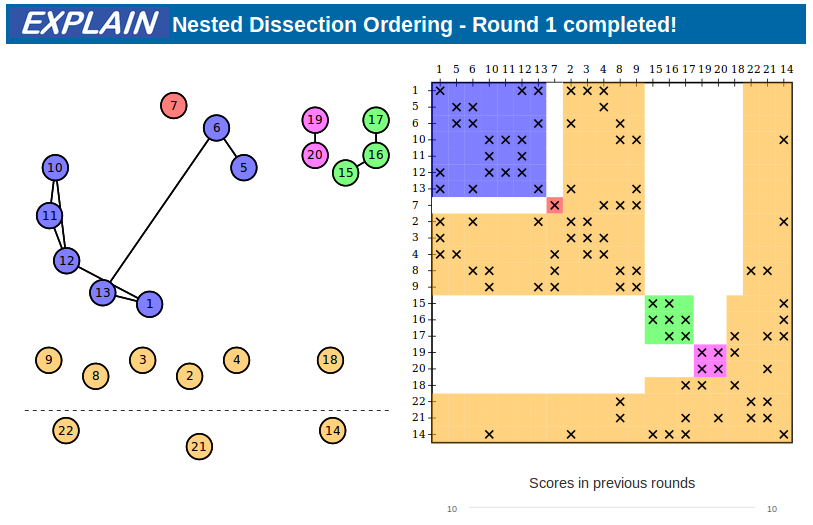
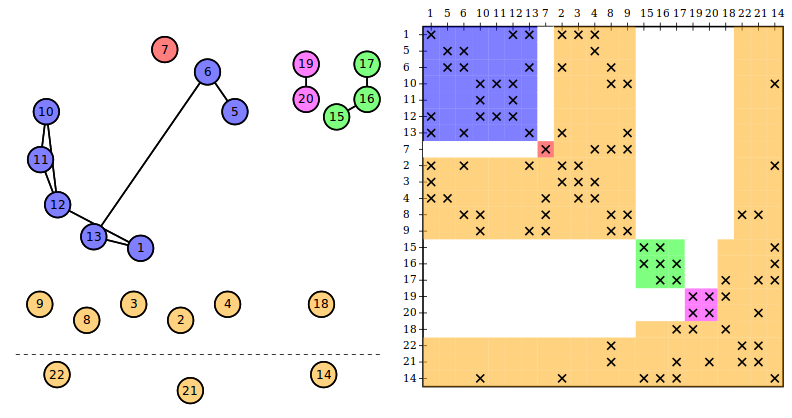
changes in nested dissection section and correcting a figure

diff --git a/diss.tex b/diss.tex
@@ -1862,7 +1862,7 @@ find a better coloring because of the inequality in the theorem.
 As theorem proposes, every required nonzero element
 is determined by either a column or a row and not both. Hence, a heuristic
 can iterate on the required element and selects between the row and column of
-the nonzero in favour of minimal coloring. 
+the nonzero in favour of minimal coloring.
 Thus, the star bicoloring heuristic can be rewritten for a better computational complexity.
 Regarding these ideas, the star bicoloring is rewritten as in \coderef{star.diagonal}.
 \begin{figure}
@@ -1881,12 +1881,12 @@ for $e=(v,u)\in E_R$
   $forbiddenColors2[0] = u$
 
   for $n\in N2(G_b,v)$
-    if $\Phi(n) > 0$ 
+    if $\Phi(n) > 0$
       $forbiddenColors1[\Phi(n)] = v$
 
   forbiddenColors[0] = u;
   for $n\in N2(G_b,u)$
-    if $\Phi(n) > 0$ 
+    if $\Phi(n) > 0$
       $forbiddenColors2[\Phi(n)] = u$
 
   $c_1 = min(\{j>0: forbiddenColors1[j] \neq v\})$
@@ -2061,8 +2061,8 @@ additionally required elements since those elements are outside the blocks.
 \section{PreCol 1.0}
 \label{s.extend}
 %%%%%%%%%%%%%%%%%%%%%%%%%%%%%%%%%%%%%%%%%%%%%%%%%%%%%%%%%%%%%%%%%%%%%%%%%%%%%
-We develop a software to compute the different algorihtm that we propose here. 
-Specially, the software is designed employing concepts from the object-oriented programming 
+We develop a software to compute the different algorihtm that we propose here.
+Specially, the software is designed employing concepts from the object-oriented programming
 such that it can be extended later with any new coloring heuristc as well as any preconditioning algorithm.
 The developers can implement new extensions without going into details of core implementation.
 This is explained in \secref{s.new.ext}.
@@ -2244,24 +2244,33 @@ an array which is the corresponding columns of nonzeros in this row.
 \label{explain}
 %%%%%%%%%%%%%%%%%%%%%%%%%%%%%%%%%%%%%%%%%%%%%%%%%%%%%%%%%%%%%%%%%%%%%%%%%%%%%%%%%%%%%
 We develop an extensible collection of educational modules (\mbox{EXPLAIN})
-to teach combinatorial scientific computing in classroom. 
+to teach combinatorial scientific computing in classroom.
 There is an increasing need for such educational tools since the connection
 between the problem from scientific computing and the corresponding combinatorial
 problem is tricky for the students.
 
-During this chapter, we look first at the conceptual design of the software in
-\secref{s.concept}. Then, we apply the gamification ideas on the software in 
-\secref{s.game} to involve the students more into the usage of \mbox{EXPLAIN}.
+\mbox{EXPLAIN} has two releases 1.0 and 2.0 so far which we will explain in more 
+details in \secref{s.impl.explain}. Some of the modules which will be explained
+are only available in the new release because of the efficiency. Both releases
+are available now since they were developed on different technologies and have
+pros and cons. However, the release 2.0 is an improved version and is developed
+regularly.
 
+During this chapter, we look first at the conceptual design of the software in
+\secref{s.concept}. Then, we apply the gamification ideas on the software in
+\secref{s.game} to involve the students more into the usage of \mbox{EXPLAIN}.
+We explain how the conceptual design is finally visualized in \secref{s.vis}.
+After looking at the available modules in \secref{s.av.modules}, we look at 
+some implementation details in \secref{s.impl.explain}.
 %%%%%%%%%%%%%%%%%%%%%%%%%%%%%%%%%%%%%%%%%%%%%%%%%%%%%%%%%%%%%%%%%%%%%%%%%%%%%%%%%%%%%
 \section{Conceptual Design}
 \label{s.concept}
 %%%%%%%%%%%%%%%%%%%%%%%%%%%%%%%%%%%%%%%%%%%%%%%%%%%%%%%%%%%%%%%%%%%%%%%%%%%%%%%%%%%%%
-Throughout the design stage, we were focused on the following goals. 
+Throughout the design stage, we were focused on the following goals.
 This software is a self-study tool and the connection between the scientific computing
 and combinatorial problems are explained by teacher in classroom.
-The students can follow the algorithm on the graph by either 
-clicking on the vertices or edges. 
+The students can follow the algorithm on the graph by either
+clicking on the vertices or edges.
 So, neither the matrix nor its nonzeros are not clickable.
 Clicking results in the modifications in both graph and matrix.
 The available modifications on graph and matrix can be one or more actions
@@ -2272,7 +2281,7 @@ from the following list,
 \item Changing the positions of vertices
 \item Permutating matrix columns or rows or both.
 \item Coloring any cell, column, or row of matrix
-\end{itemize} 
+\end{itemize}
 
 A sparse matrix is given as an input and the corresponding graph is built from this matrix.
 The matrix and the corresponding graph are visualized side by side.
@@ -2284,9 +2293,9 @@ The graph model can be from one of the following types,
 \item Bipartite graph: the bipartite graph model explained in \defref{d.bip.graph}.
 \end{itemize}
 
-We define a set of predefined list of colors which can be selected by 
-the corresponding numbers, for example  
-$\{1=\text{green}, 2=\text{turquoise}, 3=\text{orange}, 4=\text{violet}, 
+We define a set of predefined list of colors which can be selected by
+the corresponding numbers, for example
+$\{1=\text{green}, 2=\text{turquoise}, 3=\text{orange}, 4=\text{violet},
 5=\text{red}, 6=\text{yellow}, ...\}$.
 There are different set of perceptually-distinct colors which user can select.
 %%%%%%%%%%%%%%%%%%%%%%%%%%%%%%%%%%%%%%%%%%%%%%%%%%%%%%%%%%%%%%%%%%%%%%%%%%%%%%%%%%%%%
@@ -2320,12 +2329,12 @@ load.
 %%%%%%%%%%%%%%%%%%%%%%%%%%%%%%%%%%%%%%%%%%%%%%%%%%%%%%%%%%%%%%%%%%%%%%%%%%%%%%%%%%%%%%
 \section{Visualization}
 \label{s.vis}
-Based on our goal to visualized the connection of the algorithm on the matrix and graph sides simultaneausly,
+Based on our goal to visualized the connection of the algorithm on the matrix and graph sides simultaneously,
 we designed the software to have the four sections as illustrated in \figref{explain-design} (Left).
-The graph is drawn on the circular layout first. The layout can be selected later 
-in the control panel. The matrix is visualized also at the right side and 
+The graph is drawn on the circular layout first. The layout can be selected later
+in the control panel. The matrix is visualized also at the right side and
 their nonzero elements are shown by the notation $\times$.
-\figref{explain-design} (Right) shows an actual example of the implemented view of 
+\figref{explain-design} (Right) shows an actual example of the implemented view of
 \mbox{EXPLAIN}.
 
 %%%%%%%%%%%%%%%%%%%%%%%%%%%%%%%%%%%%%%%%%%%%%%%%%%%%%%%%%%%%%%%%%%%%%%%%%%%%%%%%%%%%%%
@@ -2574,9 +2583,6 @@ As soon as the student starts to click the vertices, the required elements
 are become fixed, i.e. no new required elements can be added.
 The other processes of coloring are completely like the previous module.
 
-\subsection{Nested Dissection Ordering}
-\textbf{Bisection.}
-\cite{2014:02}
 
 %------------------------------------------------------------------------------------------------
 \begin{figure}
@@ -2600,6 +2606,48 @@ solution of \MinStaBic} \label{f.arrow-shaped4}
 \end{figure}
 %------------------------------------------------------------------------------------------------
 
+\subsection{Nested Dissection Ordering}
+Given a sparse symmetric matrix $A$, the nested dissection method finds a 
+symmetric permutation $P^T A P$ of $A$ 
+such that the permutated matrix gets the following form,
+$$
+A^{\prime} =
+\begin{bmatrix}
+A_1 & 0   & \cdots & 0 & B_1^T \\
+0   & A_2 & \cdots & 0  & B_2^T \\
+\vdots& \vdots & \ddots & 0 & \vdots \\
+0   &   0 & \cdots & A_p & B_p^T \\
+B_1 & B_2 & \cdots & B_p& C
+\end{bmatrix},
+$$
+in which the size of the block matrices $A_1,...,A_p$ are balanced, 
+and the size of block $C$ is minimum.
+This reduces the computational work in different application areas.
+An example can be found in \cite{2014:02}.
+
+The graph model of this problem has the simple graph layout considering the matrix
+as the adjacency matrix of a graph. 
+The algorithm from~\cite{2014:02} searches for a so-called vertex-separator set
+corresponding to the block $C$ here. A vertex separator $S$ of the given graph $G$ 
+is a subgraph of $G$ if removing $S$ and its adjacent edges from $G$ results in two
+disconnected components $V_1$ and $V_2$ of $G$. 
+Suppose we move rows and columns corresponding to the vertex separator to the end of
+the matrix and bringing together 
+the corresponding columns of $V_1$ and $V_2$ by a permutation,
+then a nested dissection would be visualized on the matrix.
+
+We extended \mbox{EXPLAIN} with
+a new module that considers the nested dissection ordering
+of a given matrix and the equivalent graph problem, i.e.,
+finding a vertex separator (see~\cite{2014:02} for the bisection). 
+In this module, a round consists of finding a vertex separator.
+We look first at a bisection, i.e. $p=2$. 
+Figure~\ref{initial_10} shows the initial layout of an example 
+and the selection of the vertex $10$ for the set of vertex separator. The module moves the 
+corresponding column to the selected vertex to the end of the matrix
+and both the vertex and its corresponding column get the orange color.
+Additionally, the adjacent edges of the vertex are removed for a better visualization.
+
 \begin{figure}
 \centering
 \subfigure[]{
@@ -2611,11 +2659,21 @@ solution of \MinStaBic} \label{f.arrow-shaped4}
 \includegraphics[width=0.23\textwidth]{matrix_10_selected}}
 \caption{
 (a) Two equivalent representations in terms of a graph and a matrix.
-(b) Graph and matrix view after selecting the vertex number~10. 
-The decomposition into two blocks is still not shown as the graph is not yet 
+(b) Graph and matrix view after selecting the vertex number~10.
+The decomposition into two blocks is still not shown as the graph is not yet
 decomposed into two disconnected components.}
 \label{initial_10}
 \end{figure}
+
+Figure~\ref{selected_4_10_8_10} shows two scenario of selection with 
+the worst and best case of selection. The left selection~\figref{selected_4_10_8_10}(a)
+in which the vertex
+$4$ is selected after the initial selection of $10$, we have an unbalanced result.
+However, the right selection~\figref{selected_4_10_8_10}(b) results in a balanced result
+by only selecting $8$ instead of $4$. 
+When a vertex separator is found, the software colors the two disconnected components of graph
+as well as the distinct block on diagonals after permutation
+with blue and red.
 
 \begin{figure}
 \centering
@@ -2635,15 +2693,13 @@ The selection is not adequate as the sizes of blocks are not balanced.
 \label{selected_4_10_8_10}
 \end{figure}
 
-
-%\begin{figure}
-%\centering
-%\subfigure{\includegraphics[width=0.48\textwidth]{graph_8_10_selected}}%
-%\subfigure{\includegraphics[width=0.48\textwidth]{matrix_8_10_selected}}
-%\caption{Graph and matrix view after selecting the vertices number 10 and then 8. The block sizes are balanced and the separator size is minimized.}
-%\label{selected810}
-%\end{figure}
-
+A resulting score diagram from different rounds looks
+like \figref{diagram}. Here, the blue and red curves should have
+values close to each other since this indicates the balancing condition.
+The orange curve should be as low as possible
+because it represents the minimization of the separator size.
+In this figure, the separator size is indeed minimal and the
+balance condition is satisfied in the last round.
 \begin{figure}
 \centering
 \includegraphics[width=0.47\textwidth]{diagram}
@@ -2651,7 +2707,6 @@ The selection is not adequate as the sizes of blocks are not balanced.
 \label{diagram}
 \end{figure}
 
-\textbf{Recursive Disection.}
 Based on the new features of \mbox{EXPLAIN 2.0}, we could improved the previous
 bisection to a recursive nested dissection algorithm.
 It contains the bisection itself. So, the student selects the vertex separator
@@ -2665,21 +2720,21 @@ Figure~\ref{good_bisection} also shows the results of an efficient selection.
 
 \begin{figure}
 \centering
-\includegraphics[width=0.7\textwidth]{bad_bisection}
+\includegraphics[width=0.8\textwidth]{bad_bisection}
 \caption{A selection results in an inefficient bisection of graph.}
 \label{bad_bisection}
 \end{figure}
 
 \begin{figure}
 \centering
-\includegraphics[width=0.7\textwidth]{good_bisection}
+\includegraphics[width=0.8\textwidth]{good_bisection}
 \caption{A selection results in an efficient bisection of graph.}
 \label{good_bisection}
 \end{figure}
 
 \begin{figure}
 \centering
-\includegraphics[width=0.7\textwidth]{bad_disection}
+\includegraphics[width=0.8\textwidth]{bad_disection}
 \caption{A complete nested dissection up to the order 2 which has an
 inefficient result.}
 \label{bad_disection}
@@ -2688,7 +2743,7 @@ inefficient result.}
 
 \begin{figure}
 \centering
-\includegraphics[width=0.7\textwidth]{good_disection}
+\includegraphics[width=0.8\textwidth]{good_disection}
 \caption{A complete nested dissection up to the order 2 which has an
 efficient result.}
 \label{good_disection}
@@ -2696,7 +2751,7 @@ efficient result.}
 
 \begin{figure}
 \centering
-\includegraphics[width=0.7\textwidth]{good_disection2}
+\includegraphics[width=0.8\textwidth]{good_disection2}
 \caption{A complete nested dissection up to the order 2 which has an
 even more efficient result.}
 \label{good_disection2}
@@ -2711,20 +2766,23 @@ would be shown separately. Figure~\ref{bad_disection} and Figure~\ref{good_disec
 respectively. Figure~\ref{good_disection2} shows how the results can
 get even better by a suitable order of selection.
 
-
 The corresponding diagram of the history of rounds is improved such that
 both the size of vertex separator as well as the size of four graph parts
 can be visualized. Figure~\ref{barchart} shows a possible selection history.
 As it can be seen the line chart shows the size history of the vertex separator
 and four bar chart grouped together shows the size history of the graph parts.
-
+The colors are also the same colors which are used in the graph and matrix visualizations.
+Since the goal here is to minimize the size of vertex separator as well as balancing the 
+size of subgraphs, we achieved the optimum results in the fourth round of selection.
 \begin{figure}
 \centering
-\includegraphics[width=0.47\textwidth]{chart2}
-\caption{}
+\includegraphics[width=0.6\textwidth]{chart2}
+\caption{The size of four subgraphs, shown as bar charts,
+resulted from nested dissection compared in different rounds.
+The color of bar charts are related to the colors of corresponding subgraph.
+The curve of the orange color is also the size of vertex separator.}
 \label{barchart}
 \end{figure}
-
 
 \subsection{Parallel Matrix Vector Product}
 
@@ -3035,9 +3093,9 @@ This source code can also be edited temporarily. Later, the student can
 decide to start the selection by mouse or an automatic visualization
 of the algorithm in which the order is defined by the variable "order".
 
-If the student selects the visualization based on the given ordering, 
+If the student selects the visualization based on the given ordering,
 an animation go through the vertices and execute each line of algorithm
-one by one to visualize the algorithm during the time. 
+one by one to visualize the algorithm during the time.
 The speed of the execution can be set up.
 
 \section{Implementation Details}
@@ -3228,8 +3286,10 @@ remains almost the same. Additionally, we extend an interactive educational modu
 Although there is much research, many dimensions of the problem can be improved. Most of the works toward mixing AD and preconditioning looks at solutions for a general matrix. However, the study of Hessian matrix and its connection to fill-in of Cholesky factorization might offer more degree of freedom in coloring.
 
 On the other hand, we considered only the ILU preconditioning. What if we replace ILU with the approximate inverse preconditioning (AINV)~\cite{ainv98} which produces no fill-in. There is a need to review the AINV algorithms. An algorithm for this technique takes a pattern for preconditioner $M$ as input and gradually updates this starting pattern and the nonzero values.
-So we can do first a sparsification as usual which leads to $R_p$ and take $R_i + R_p$ as starting pattern for $M$. Then, we would have two
-separate problems: coloring and AINV preconditioning. It means that two matrices $R_init$ and $M$ are provided as input. We then color the graph with this information. It is a different coloring problem than the usual partial coloring problem. However, this seems to be the same as partial coloring with a larger set of required elements.
+So we can do first a sparsification as usual which leads to $R_p$ and take $R_i + R_p$ as starting pattern for $M$. Then, we would have two separate problems of coloring and AINV preconditioning. 
+So, we color the graph given two input matrices $R_i$ and $M$.
+It is a different coloring problem than the usual partial coloring problem. 
+However, this seems to be the same as partial coloring with a larger set of required elements.
 When applying AINV to an initial $M$, is there any effect on $M$? For
 instance, does the pattern of $M$ vary? How does it vary? Does the
 variation depend on the structure of the initial pattern only? Or
